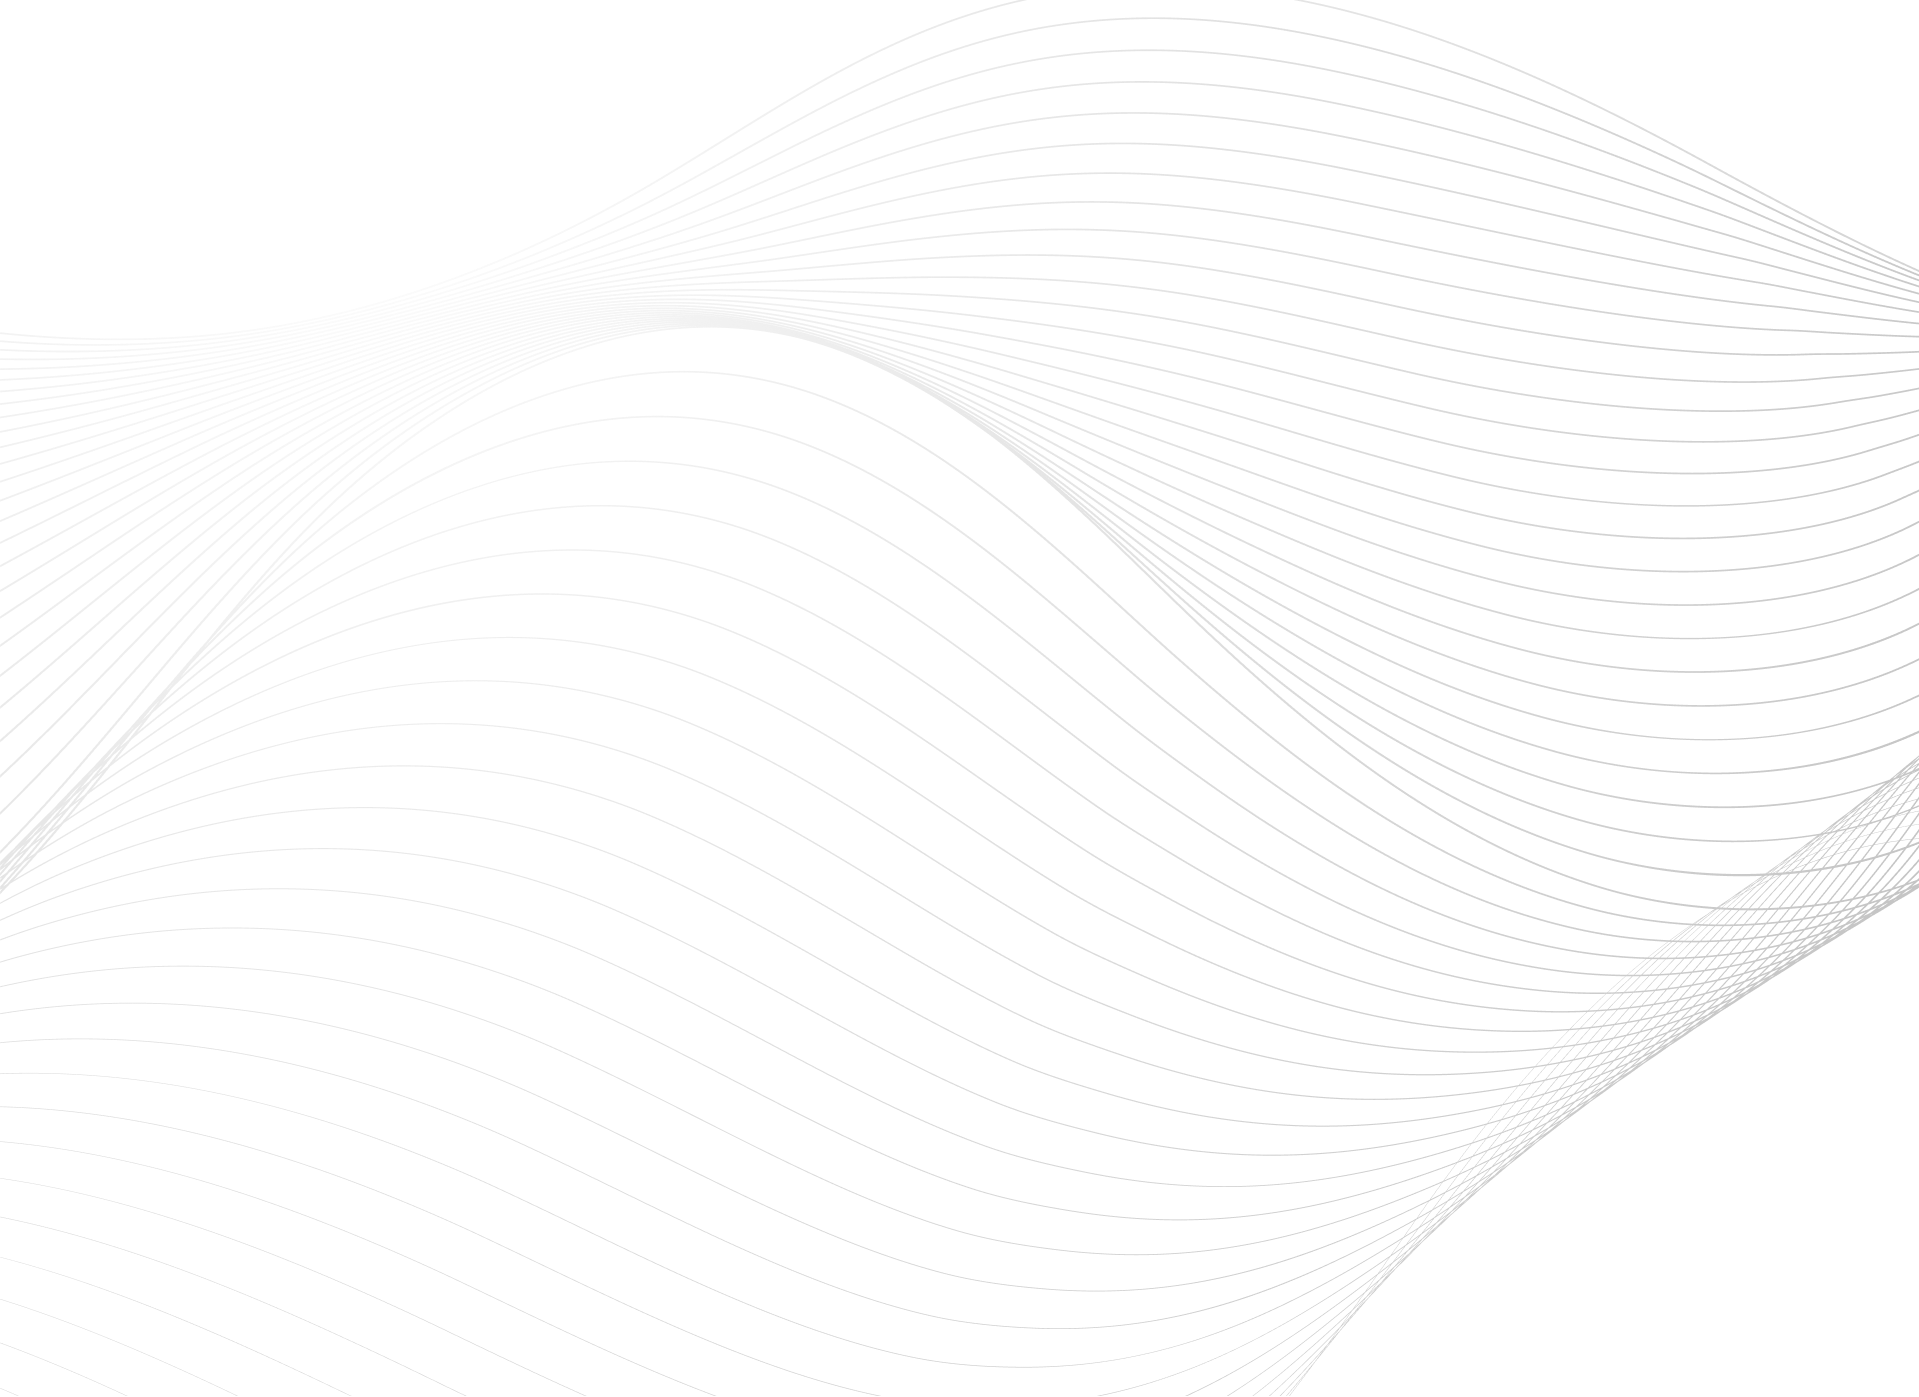
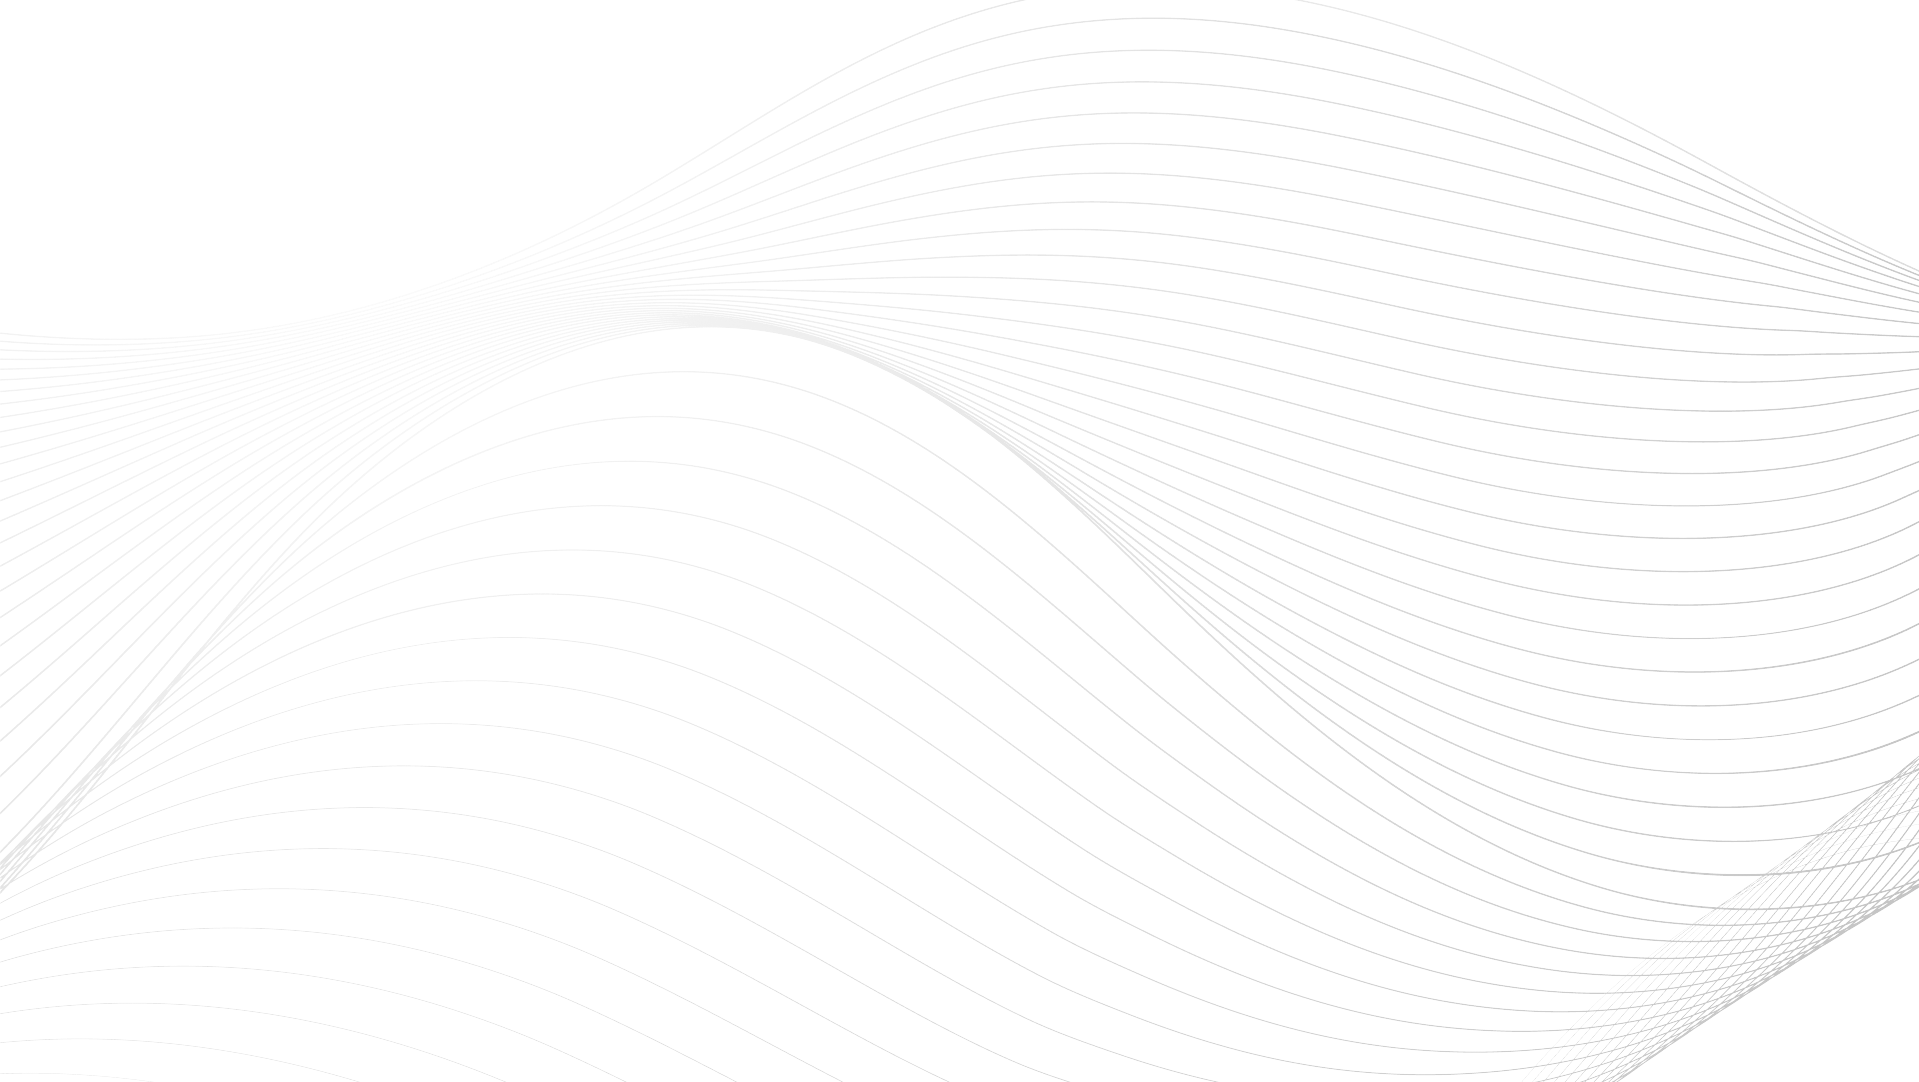
some changes in homepage

diff --git a/client/src/pages/HomePage.jsx b/client/src/pages/HomePage.jsx
@@ -1,9 +1,11 @@
 import SectionWrapper from '../hoc/SectionWrapper';
 import SwiperCarousel from '../components/SwiperCarousel';
+import { useState, useEffect, useRef } from 'react'; 
+import CountUp from 'react-countup';
 
 const FirstPart = () => {
     return (
-        <div className="w-full h-screen flex flex-col justify-center items-center bg-[url('../assets/Group.png')] bg-cover bg-left-20">
+        <div className="w-full h-screen flex flex-col justify-center items-center bg-[url('../assets/group.png')] ">
             
             <div className="w-full min-h-svh items-center flex flex-col relative top-[20%] mb-20 ">
                 <div className="flex flex-row ">
@@ -149,50 +151,79 @@ const ThirdPart = () => {
     );
 };
 
+
 const FourthPart = () => {
+    const [startCounter, setStartCounter] = useState(false);
+    const counterRef = useRef(null); 
+
+    useEffect(() => {
+        const observer = new IntersectionObserver(
+            (entries) => {
+                if (entries[0].isIntersecting) {
+                    setStartCounter(true); // Start counter when in view
+                } else {
+                    setStartCounter(false); 
+                }
+            },
+            { threshold: 0.5 } 
+        );
+
+        if (counterRef.current) {
+            observer.observe(counterRef.current);
+        }
+
+        return () => {
+            if (counterRef.current) {
+                observer.unobserve(counterRef.current);
+            }
+        };
+    }, []);
+
     return (
-        <div className="relative w-full h-full">
+        <div ref={counterRef} className="relative w-full h-full">
             <img
                 src="../assets/back2.png"
                 alt="Background Decorative Image"
-                className="absolute inset-0 w-full h-full object-cover opacity-90 py-30" 
+                className="absolute inset-0 w-full h-full object-cover opacity-90 py-30"
             />
 
             <div className="relative flex flex-col items-center justify-center h-full bg-white bg-opacity-0 py-20">
-                {/* Title */}
-                <h1 className="text-5xl text-white text-center mb-10 font-bold  ">
-                        Registered
-                    </h1>
 
-                    <h2 className="text-[32px] text-white  mb-20 font-poppins font-light opacity-100">
-                        Users and Organizations
-                    </h2>
+                <h1 className="text-5xl text-white text-center mb-10 font-bold">
+                    Registered
+                </h1>
+
+                <h2 className="text-[32px] text-white mb-20 font-poppins font-light opacity-100">
+                    Users and Organizations
+                </h2>
+
                 <div className="flex flex-nowrap justify-center mt-10 gap-80 max-w-2xl mx-auto text-center overflow-x-auto">
-                
-                    <div className=" text-white flex flex-col items-center italic ">
+                    
+
+                    <div className=" text-white flex flex-col items-center italic">
                         <img
                             src="../assets/Group 745.png"
                             alt="Individuals"
-                            className="w-[120px] h-[120px] mb-2" 
+                            className="w-[120px] h-[120px] mb-2"
                         />
-                        <h1 className="text-4xl text-white text-center mt-10 mb-10 font-bold  ">
-                        50,000
-                    </h1>
-                        <p className="text-sm">Individuals</p>
+                        <h1 className="text-4xl text-[#6bf1c6] text-center mt-10 mb-10 font-bold">
+                            {startCounter ? <CountUp end={50000} duration={2} /> : '0'} {/* Counter for Individuals */}
+                        </h1>
+                        <p className="text-xl">Individuals</p>
                     </div>
 
-                    <div className=" text-white flex flex-col items-center italic ">
+
+                    <div className="text-white flex flex-col items-center italic">
                         <img
                             src="../assets/Group 718.png"
                             alt="Organizations"
-                            className="w-[120px] h-[120px] mb-2" // Uniform size for all images
+                            className="w-[120px] h-[120px] mb-2"
                         />
-                        <h1 className="text-4xl text-white text-center mt-10 mb-10 font-bold  ">
-                        50,000
-                    </h1>
-                        <p className="text-sm">Organizations</p>
-                    </div>
-                    
+                        <h1 className="text-4xl text-[#6bf1c6] text-center mt-10 mb-10 font-bold">
+                            {startCounter ? <CountUp end={50001} duration={2} /> : '0'} {/* Counter for Organizations */}
+                        </h1>
+                        <p className="text-xl">Organizations</p>
+                    </div>                  
                 </div>
             </div>
         </div>
@@ -201,9 +232,9 @@ const FourthPart = () => {
 
 const FivethPart = () => {
     return (
-        <div className="w-full h-screen flex flex-col justify-center items-center bg-[url('../assets/background4.png')]">
+        <div className="w-full h-screen flex flex-col justify-center items-center bg-[url('../assets/group1.png')]">
                 <div className=" ">
-                    <h1 className="text-4xl text-white text-center -mt-60 mb-10 font-bold  ">
+                    <h1 className="text-4xl text-white text-center -mt-50 mb-10 font-bold  ">
                         Upcoming Opportunities
                     </h1>
 
@@ -237,43 +268,59 @@ const SixthPart = () => {
 };
 
 
+
 const SeventhPart = () => {
-    return (
-            <div className="w-full h-full flex flex-col bg-[url('../assets/background3.png')] justify-center items-center py-20">
+  // State to manage the order of the cards
+    const [selectedCard, setSelectedCard] = useState('yellow');
 
-                <div className="text-white text-5xl font-bold mb-48">Reviews</div>
+return (
+    <div className="w-full h-full flex flex-col bg-[url('../assets/background3.png')] justify-center items-center py-20">
+        <div className="text-white text-5xl font-bold mb-48">Reviews</div>
 
-                <div className="relative w-full flex justify-center items-center -space-x-80">
-                    <div class="relative flex justify-center items-center rounded-xl bg-[#4FEAC6] w-[44rem] h-56 p-6 shadow-lg z-10">
-                        <div class="absolute -top-10 left-1/2 transform -translate-x-1/2 w-20 h-20 rounded-full bg-white border-2 border-[#F6F49D]"></div>
-                        <div class="text-sm md:text-base text-black">
-                            Lorem ipsum dolor sit amet, consectetur adipiscing
-                            elit, sed do eiusmod tempor incididunt ut labore et
-                            dolore magna aliqua.
-                        </div>
-                    </div>
+            <div className="relative w-full flex justify-center items-center -space-x-80">
 
-                    <div class="relative flex justify-center items-center rounded-xl bg-[#F6F49D] w-[44rem] h-56 p-6 shadow-lg z-50 mb-44">
-                        <div class="absolute -top-10 left-1/2 transform -translate-x-1/2 w-20 h-20 rounded-full bg-white border-2 border-[#F6F49D]"></div>
-                        <div class="text-sm md:text-base text-black">
-                            Lorem ipsum dolor sit amet, consectetur adipiscing
-                            elit, sed do eiusmod tempor incididunt ut labore et
-                            dolore magna aliqua. Ut enim ad minim veniam, quis
-                            nostrud exercitation ullamco laboris nisi.
-                        </div>
-                    </div>
-
-                    <div class="relative flex justify-center items-center rounded-xl bg-[#B3B5FF] w-[44rem] h-56 p-6 shadow-lg z-10">
-                        <div class="absolute -top-10 left-1/2 transform -translate-x-1/2 w-20 h-20 rounded-full bg-white border-2 border-[#F6F49D]"></div>
-                        <div class="text-sm md:text-base text-black">
-                            Lorem ipsum dolor sit amet, consectetur adipiscing
-                            elit, sed do eiusmod tempor incididunt ut labore et
-                            dolore magna aliqua.
-                        </div>
-                    </div>
-                </div>
+        <div
+        onClick={() => setSelectedCard('teal')}
+        className={`relative flex flex-col justify-center items-center rounded-xl bg-[#4FEAC6] w-[44rem] h-56 p-6 shadow-lg transition-transform duration-500 ease-in-out 
+            ${selectedCard === 'teal' ? 'z-50 mb-44 scale-110 relative left-96 scale-110' : 'z-10  scale-100'}
+        `}
+        >
+            <div className="absolute -top-10 left-1/2 transform -translate-x-1/2 w-20 h-20 rounded-full bg-white border-2 border-[#F6F49D]"></div>
+            <h1 className="text-lg mb-8 self-start">Username</h1>
+            <div className="text-sm md:text-base text-black">
+            Lorem ipsum dolor sit amet, consectetur adipiscing elit, sed do eiusmod tempor incididunt ut labore et dolore magna aliqua. Ut enim ad minim veniam, quis nostrud exercitation ullamco laboris nisi             </div>
         </div>
-    );
+
+
+        <div
+            onClick={() => setSelectedCard('yellow')}
+            className={`relative flex flex-col justify-center items-center rounded-xl bg-[#F6F49D] w-[44rem] h-56 p-6 shadow-lg transition-transform duration-500 ease-in-out 
+            ${selectedCard === 'yellow' ? 'z-50 mb-44 scale-110' : 'relative right-96  z-20 scale-100'}
+            `}
+        >
+            <div className="absolute -top-10 left-1/2 transform -translate-x-1/2 w-20 h-20 rounded-full bg-white border-2 border-[#F6F49D]"></div>
+            <h1 className="text-lg mb-8 self-start">Username</h1>
+            <div className="text-sm md:text-base text-black">
+            Lorem ipsum dolor sit amet, consectetur adipiscing elit, sed do eiusmod tempor incididunt ut labore et dolore magna aliqua. Ut enim ad minim veniam, quis nostrud exercitation ullamco laboris nisi 
+                    </div>
+        </div>
+
+
+        <div
+        onClick={() => setSelectedCard('lavender')}
+        className={`relative flex flex-col justify-center items-center rounded-xl bg-[#B3B5FF] w-[44rem] h-56 p-6 shadow-lg transition-transform duration-500 ease-in-out 
+            ${selectedCard === 'lavender' ? 'z-50 mb-44 relative right-80 scale-110' : 'z-30 scale-100'}
+        `}
+        >
+            <div className="absolute -top-10 left-1/2 transform -translate-x-1/2 w-20 h-20 rounded-full bg-white border-2 border-[#F6F49D]"></div>
+            <h1 className="text-lg mb-8 self-start">Username</h1>
+            <div className="text-sm md:text-base text-black">
+            Lorem ipsum dolor sit amet, consectetur adipiscing elit, sed do eiusmod tempor incididunt ut labore et dolore magna aliqua. Ut enim ad minim veniam, quis nostrud exercitation ullamco laboris nisi            
+            </div>
+        </div>
+        </div>
+    </div>
+);
 };
 
 const HomePage = () => {
